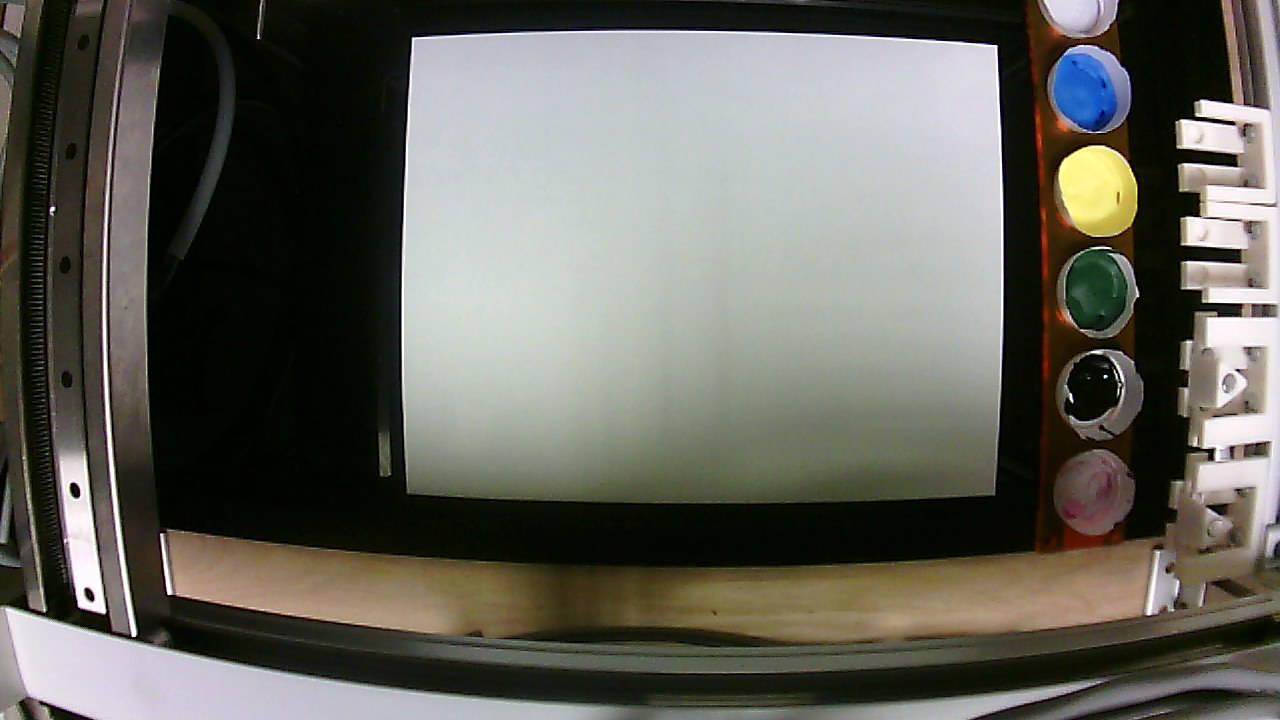
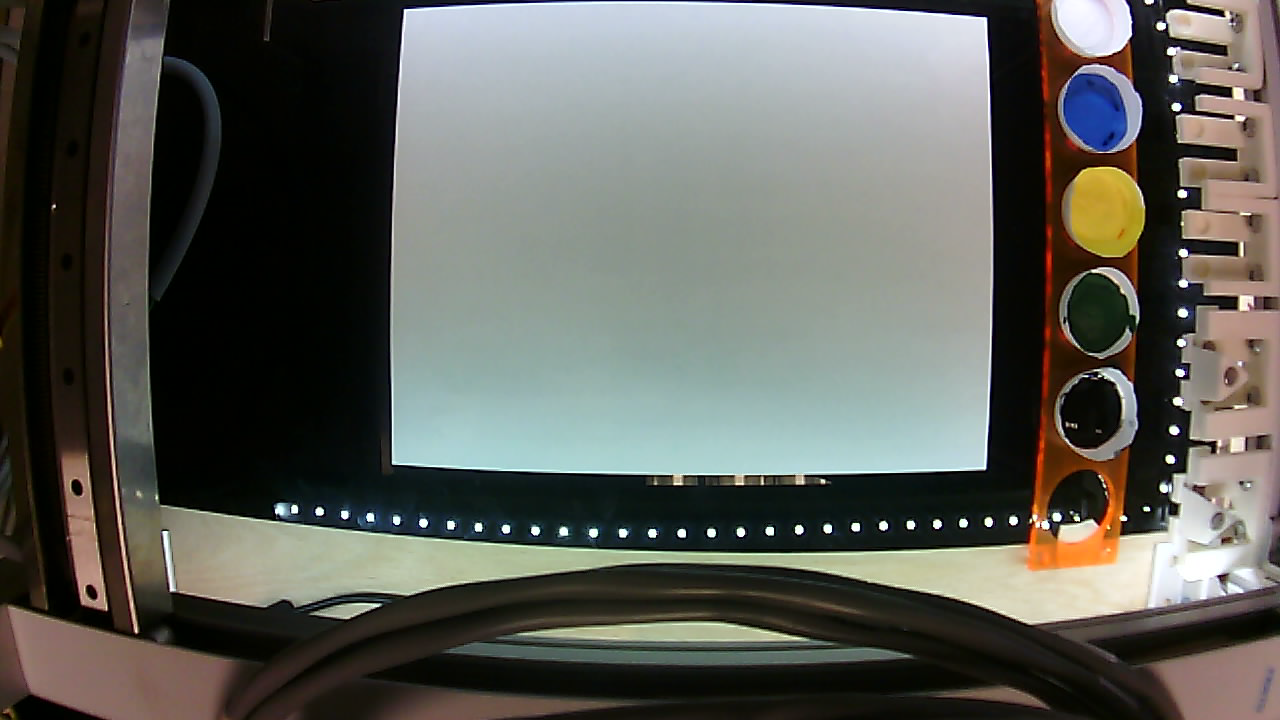
Made some tweaks to paint with feedback

diff --git a/HighLevel/paint_with_feedback_arduino.py b/HighLevel/paint_with_feedback_arduino.py
@@ -20,8 +20,6 @@ import cv2
 from camera.CanvasCamera import Camera
 from camera.CameraException import *
 
-
-
 # ##################################################################
 # ##########################  SETUP COMMUNICATIONS  ################
 # ##################################################################
@@ -96,7 +94,7 @@ util.save(segmented_image, "04_color_desegmented_image")
 ##################################################################
 
 # Recomposers to use
-
+ 
 # Recomp and Paint
 for index in range(len(color_segments)):
 	print "Index ", index
@@ -122,68 +120,63 @@ sleep(3)
 print "Routine Complete, Enjoy ! "
 
 ##################################################################
+while(1):
+	painted_image = cam.dewarp(cam.read_camera())
+	util.save(painted_image, "05_painting")
 
-painted_image = cam.dewarp(cam.read_camera())
-util.save(painted_image, "05_painting")
+	painting = cam.get_canvas(painted_image)
 
-painting = cam.get_canvas(painted_image)
+	rows, cols, _ = painting.shape
 
+	M = np.float32([[1,0,12],[0,1,21]])
+	painting = cv2.warpAffine(painting,M,(cols,rows))
 
+	palette = color_pallete.build("black white")
 
-rows, cols, _ = painting.shape
+	segmented_image_act, [colors,color_segments_src], [canvas,canvas_segment]  \
+	    = decompose(circle_source_image, 0,palette, color_pallete.white)
 
-M = np.float32([[1,0,12],[0,1,21]])
-painting = cv2.warpAffine(painting,M,(cols,rows))
+	segmented_image, [colors,color_segments_act], [canvas,canvas_segment]  \
+	    = decompose(painting, 0,palette, color_pallete.white)
 
+	for elt in range(0, len(color_segments_src)):
+		color_segments_src[elt] = resize_with_buffer(color_segments_src[elt], color_segments_act[elt])
 
-palette = color_pallete.build("black white")
+	correction_segments, canvas_corrections = cam.correct_image(color_segments_src,color_segments_act)
 
-segmented_image_act, [colors,color_segments_src], [canvas,canvas_segment]  \
-    = decompose(circle_source_image, 0,palette, color_pallete.white)
+	print "Out here"
 
-segmented_image, [colors,color_segments_act], [canvas,canvas_segment]  \
-    = decompose(painting, 0,palette, color_pallete.white)
+	##################################################################
+	# painting the things
 
-for elt in range(0, len(color_segments_src)):
-	color_segments_src[elt] = resize_with_buffer(color_segments_src[elt], color_segments_act[elt])
+	# Recomp and Paint
+	for index in range(len(correction_segments)):
+		print "Index ", index
+		img = correction_segments[index]
+		img = open_image(img)
 
-correction_segments, canvas_corrections = cam.correct_image(color_segments_src,color_segments_act)
+		print "Fetching new brush"
+		paint_routine.getBrush(index)
 
+		print "Recomposition"
+		recomposer = iterativeErosionRecomposer(img, [3])
+		LLT = recomposer.recompose()
 
-##################################################################
+		print "LLT to Paint: ", LLT
+		testLLT(LLT,3)
 
-######
-# painting the things
+		print "Let's Paint a Picture ~"
+		paint_routine.Paint(LLT)
 
-# Recomp and Paint
-for index in range(len(correction_segments)):
-	print "Index ", index
-	img = correction_segments[index]
-	img = open_image(img)
+		print "LLT Finished "
 
-	print "Fetching new brush"
-	paint_routine.getBrush(index)
+	paint_routine.returnToStart()
+	print "Routine Complete, Enjoy ! "
 
-	print "Recomposition"
-	recomposer = iterativeErosionRecomposer(img, [3])
-	LLT = recomposer.recompose()
+	img = cam.read_camera()
+	util.save(img, "06_camera_read_final")
 
-	print "LLT to Paint: ", LLT
-	testLLT(LLT,3)
-
-	print "Let's Paint a Picture ~"
-	paint_routine.Paint(LLT)
-
-	print "LLT Finished "
-
-paint_routine.returnToStart()
-print "Routine Complete, Enjoy ! "
-
-
-img = cam.read_camera()
-util.save(img, "06_camera_read_final")
-
-dewarp_img = cam.dewarp(img)
-a, w, h = dewarp_img.shape
-util.save(dewarp_img, "07_dewarp_camera_read_final")
+	dewarp_img = cam.dewarp(img)
+	a, w, h = dewarp_img.shape
+	util.save(dewarp_img, "07_dewarp_camera_read_final")
 

diff --git a/HighLevel/camera/CanvasCamera.py b/HighLevel/camera/CanvasCamera.py
@@ -12,8 +12,8 @@ class Camera(object):
         self.port = port
         self.canvas_transformation_data = None
         self.camera_capture = cv2.VideoCapture(self.port)   # value -> index of camera. My webcam was 0, USB camera was 1.
-        # self.camera_capture.set(cv2.CAP_PROP_FRAME_WIDTH, 1280)
-        # self.camera_capture.set(cv2.CAP_PROP_FRAME_HEIGHT, 720)
+        self.camera_capture.set(cv2.CAP_PROP_FRAME_WIDTH, 1280)
+        self.camera_capture.set(cv2.CAP_PROP_FRAME_HEIGHT, 720)
 
 
     @staticmethod
@@ -26,11 +26,10 @@ class Camera(object):
         painted_imset: image decomp set containing array of color channels as bin images
         """
 
+        print "Lets correct image"
+
         color_corrections = []
         canvas_corrections = None
-
-        util.displayarray(src_imset)
-        util.displayarray(painted_imset)
 
         for image in range(len(painted_imset)):
             print "finding error..."

diff --git a/HighLevel/paint_with_arduino/paint_orders.py b/HighLevel/paint_with_arduino/paint_orders.py
@@ -102,11 +102,11 @@ class paint_orders():
 
 		firgelli_up = [0, 0, firgelli_insert_height, 800, 0, 1, 1]
 
-		if(self.old_brush_index != -1):
+		if(self.old_brush_index != -1 and new_brush_index != -1):
 			# put current brush back
 			placeBrush(self.brush_offsets[self.old_brush_index])
 		
-		if(new_brush_index == -1):
+		if(new_brush_index == -1 ):
 			placeBrush(self.brush_offsets[self.old_brush_index])
 			self.old_brush_index = new_brush_index
 			return
@@ -173,7 +173,7 @@ class paint_orders():
 
 		# Record Fergelli Height Values
 		down_val = 250
-		up_val = 350
+		up_val = 400
 		final_up_val = 800
 
 		# Record how far we've gone (0.1 mm)

diff --git a/HighLevel/common/util.py b/HighLevel/common/util.py
@@ -52,6 +52,8 @@ def resize_with_buffer(ideal, actual):
     :param actual: The actual image.
     :return:
     """
+
+    print "Resize with Buffer ?"
     h_perf, w_perf, _ = ideal.shape
     h_actual, w_actual, _ = actual.shape
 
@@ -188,7 +190,7 @@ def testLLT(LLT,scale = 2,paper_size = (8.5*25.4,11*25.4),thickness=2):
             pt_list.append(pt)
         lines.append(pt_list)
     drawnImg = drawLines(lines,np.array(255*np.ones((int(paper_size[0]*scale),int(paper_size[1]*scale))),dtype='uint8'),thickness)
-    display(drawnImg)
+    save(drawnImg, "Circle LLT")
     return drawnImg
 
 def loadLLT(fname = 'orders.txt'):

diff --git a/TestCode/HighLevel/testSerialComm/manual_gantry_control.py b/TestCode/HighLevel/testSerialComm/manual_gantry_control.py
@@ -56,7 +56,7 @@ sleep(1)
 # element = [0, 0, 270, 800, 1, 1, 1]
 
 
-element = [80, 300, 1000, 800, 1, 1, 1]
+element = [0, 0, 1000, 3200, 0, 1, 1]
 send_standard_packet(element)
 
 
